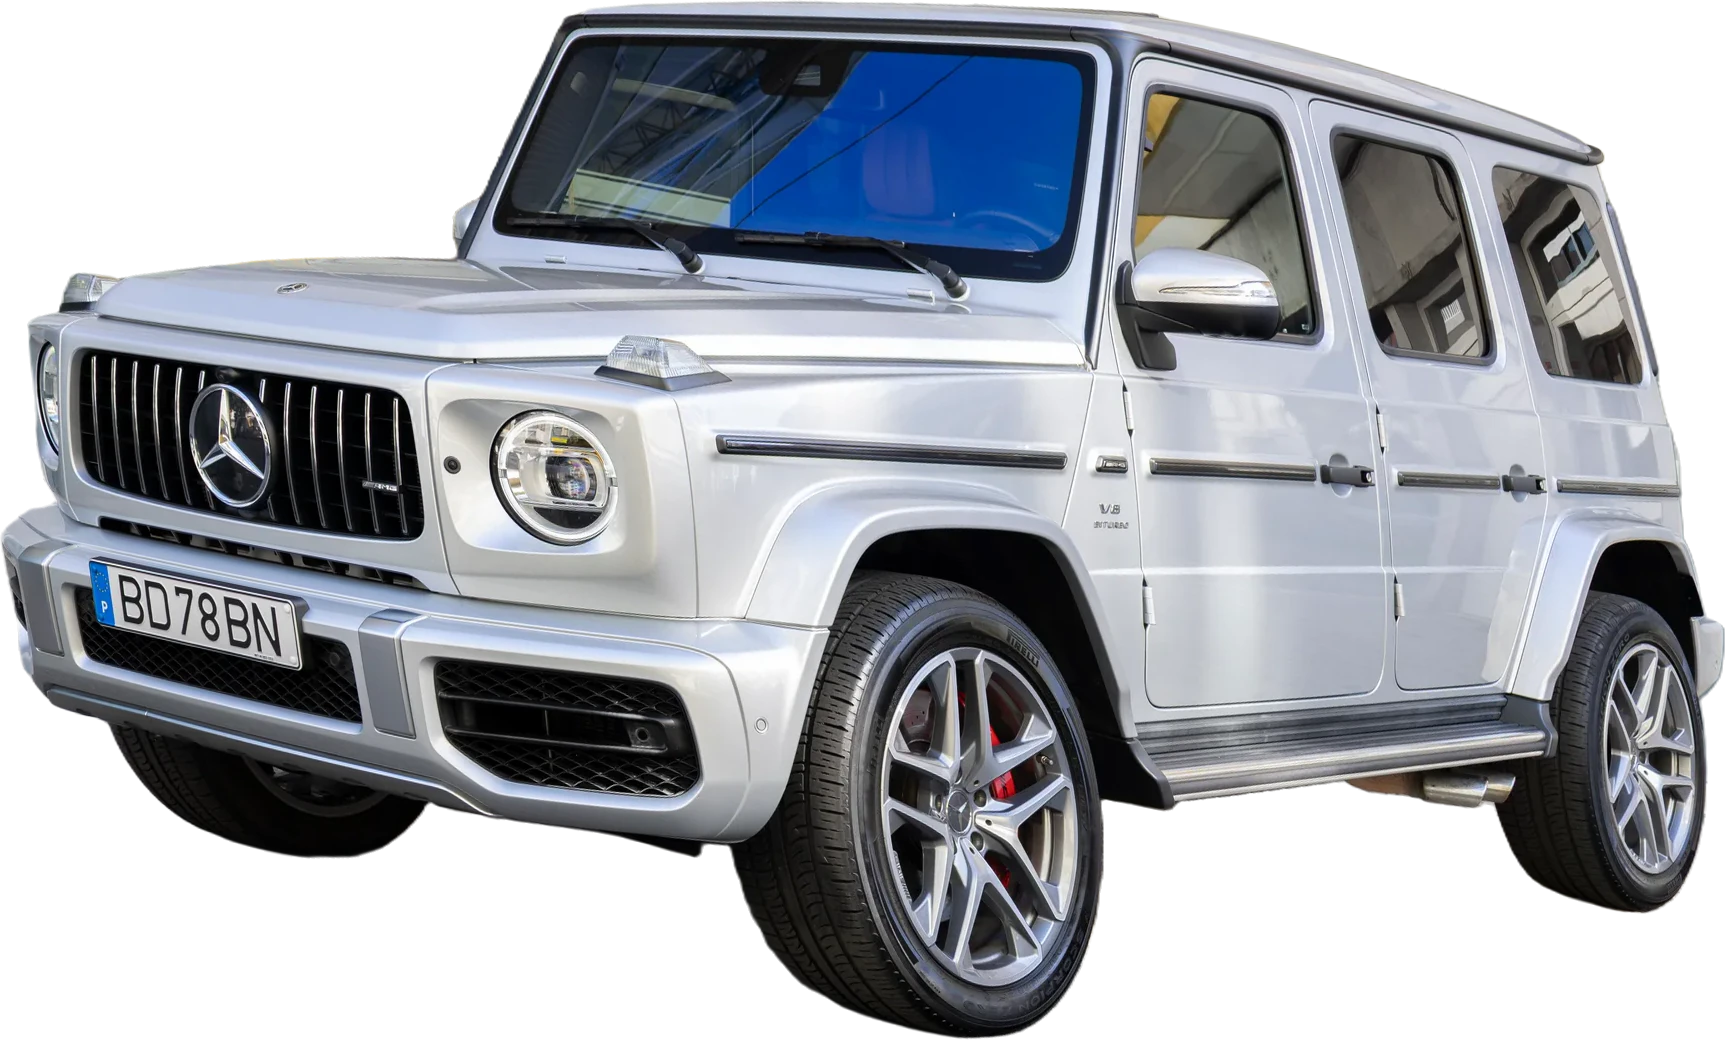
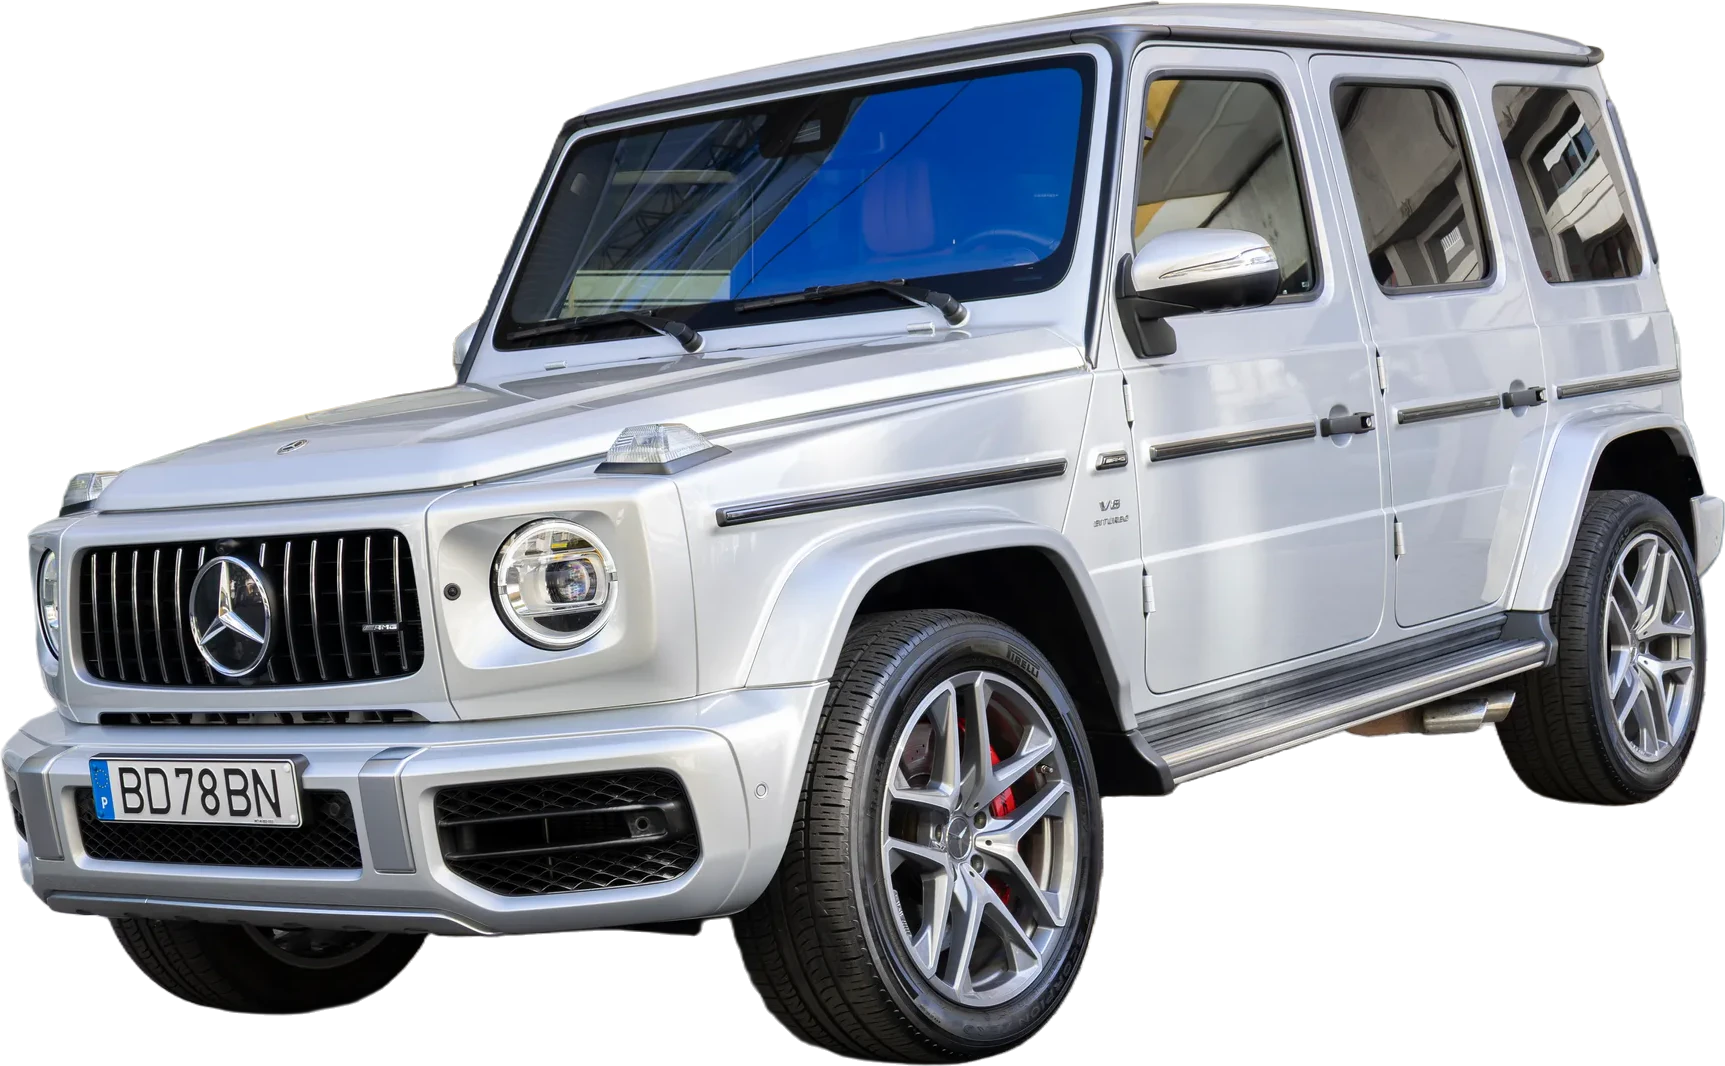
Keep the original photo angle (leveling off by default)

diff --git a/README.md b/README.md
@@ -48,7 +48,7 @@ npm install                               # só da primeira vez
 npm run recortar -- 1722938               # id da viatura em cars.js
 npm run recortar -- --todos               # refaz todos os carros do showroom
 npm run recortar -- 1722938 --variantes   # compara: rodas detetadas | 50 % | 100 %
-npm run recortar -- 1722938 --nivel 0.3   # quanto nivelar (0 = nada, 0.5 = padrão)
+npm run recortar -- 1722938 --nivel 0.3   # nivelar as rodas (0 = ângulo original, padrão)
 npm run recortar -- 1726224 --foto 1      # usar outra foto do anúncio
 ```
 
@@ -57,7 +57,7 @@ O que faz:
 2. **Recorte com BiRefNet**, um modelo de IA de segmentação (licença MIT) que corre no próprio computador, sem custos. Na primeira vez é preciso descarregar o modelo (~1 GB) para `tools/.models/birefnet.onnx`:
    `curl -L -o tools/.models/birefnet.onnx https://huggingface.co/onnx-community/BiRefNet-ONNX/resolve/main/onnx/model.onnx`
 3. **Limpeza**: fica só a mancha principal (o carro). Os restos da fachada e os reflexos soltos saem.
-4. **Nivelar**: deteta onde as rodas tocam no chão e endireita o carro 50 % do caminho, sem entortar as verticais. A 100 % as rodas ficam na mesma linha, mas o carro parece "mergulhar".
+4. **Nivelar (opcional, desligado)**: `--nivel` endireita o carro pelas rodas, mas deforma-o. Por isso o padrão é 0, o ângulo original da foto.
 5. **Exporta** um WebP transparente de até 1800 px para `cars/`, com o nome do campo `imagem`.
 6. Gera `tools/.work/folha.png` com todos os recortes, para rever de uma vez.
 
